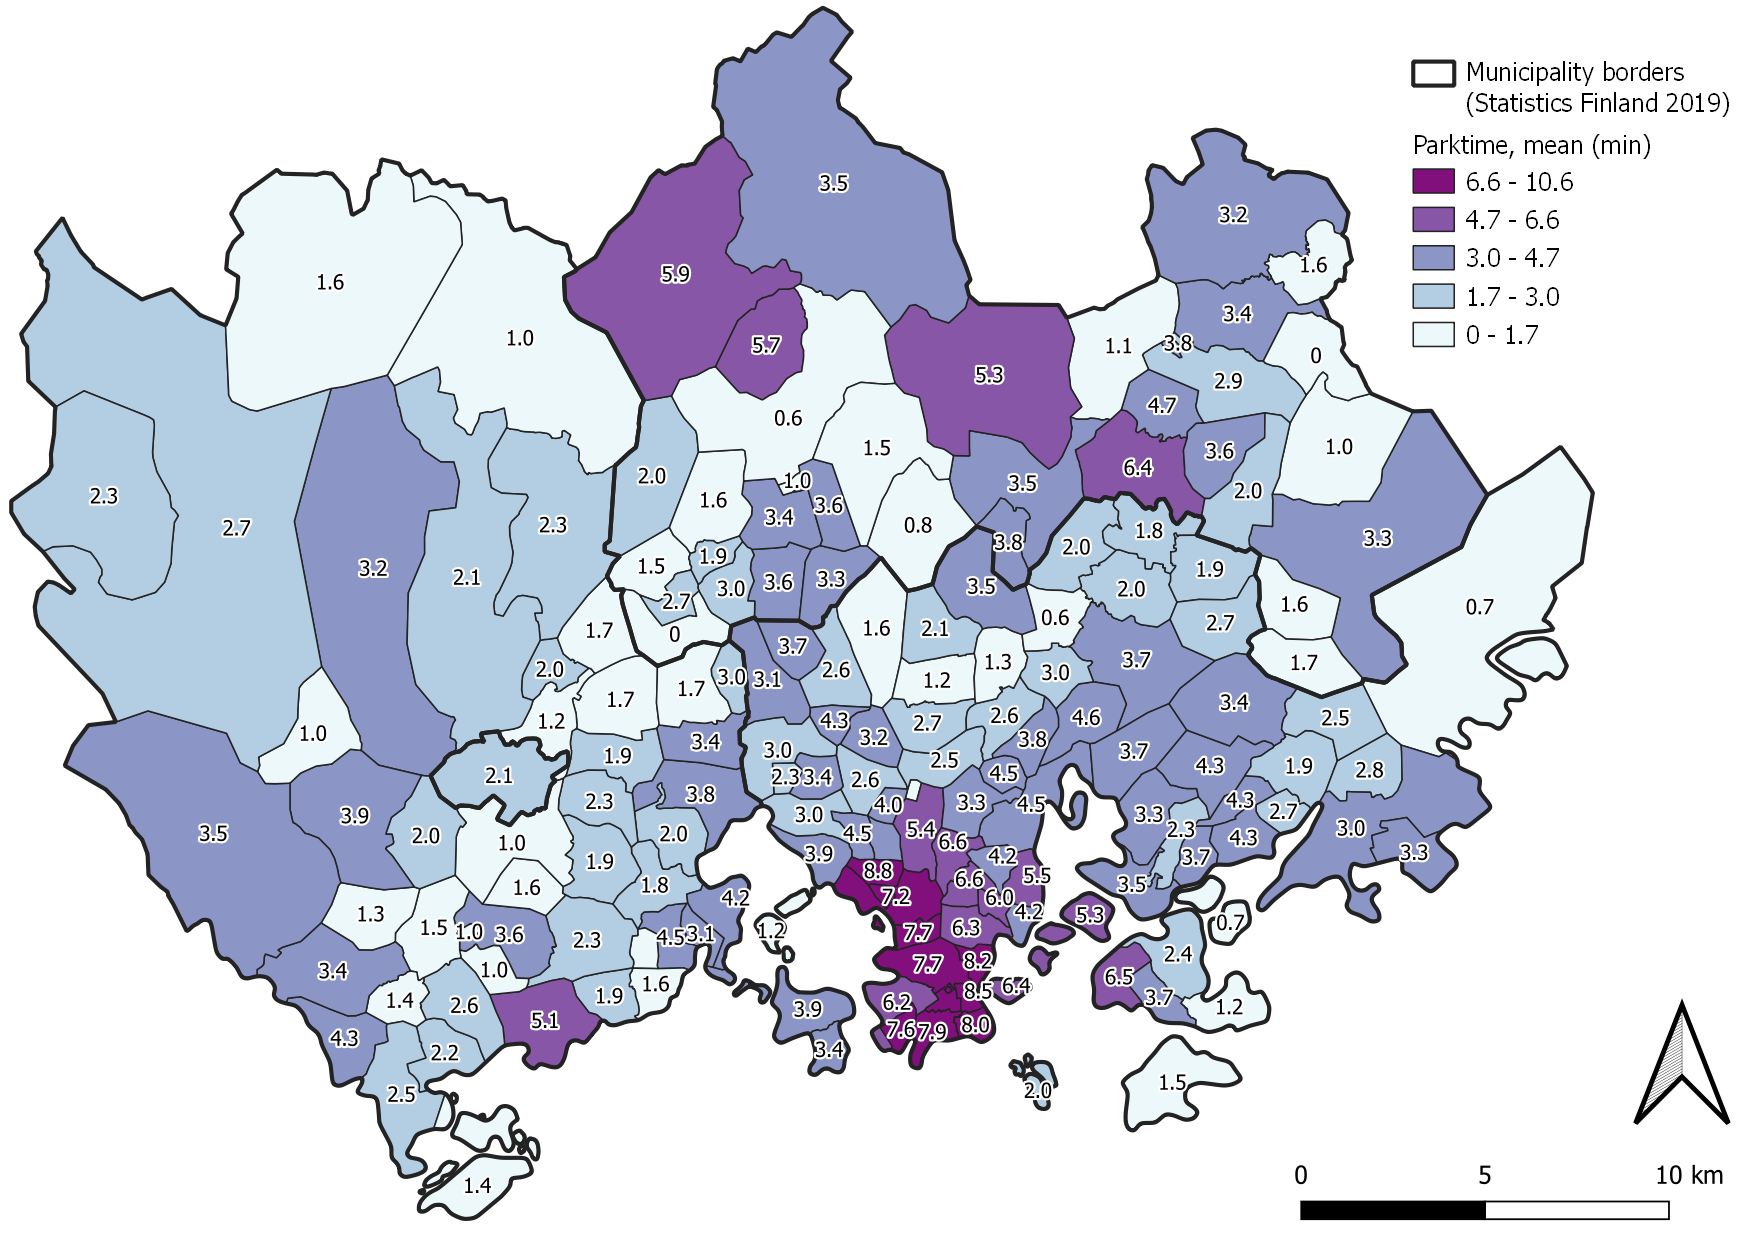
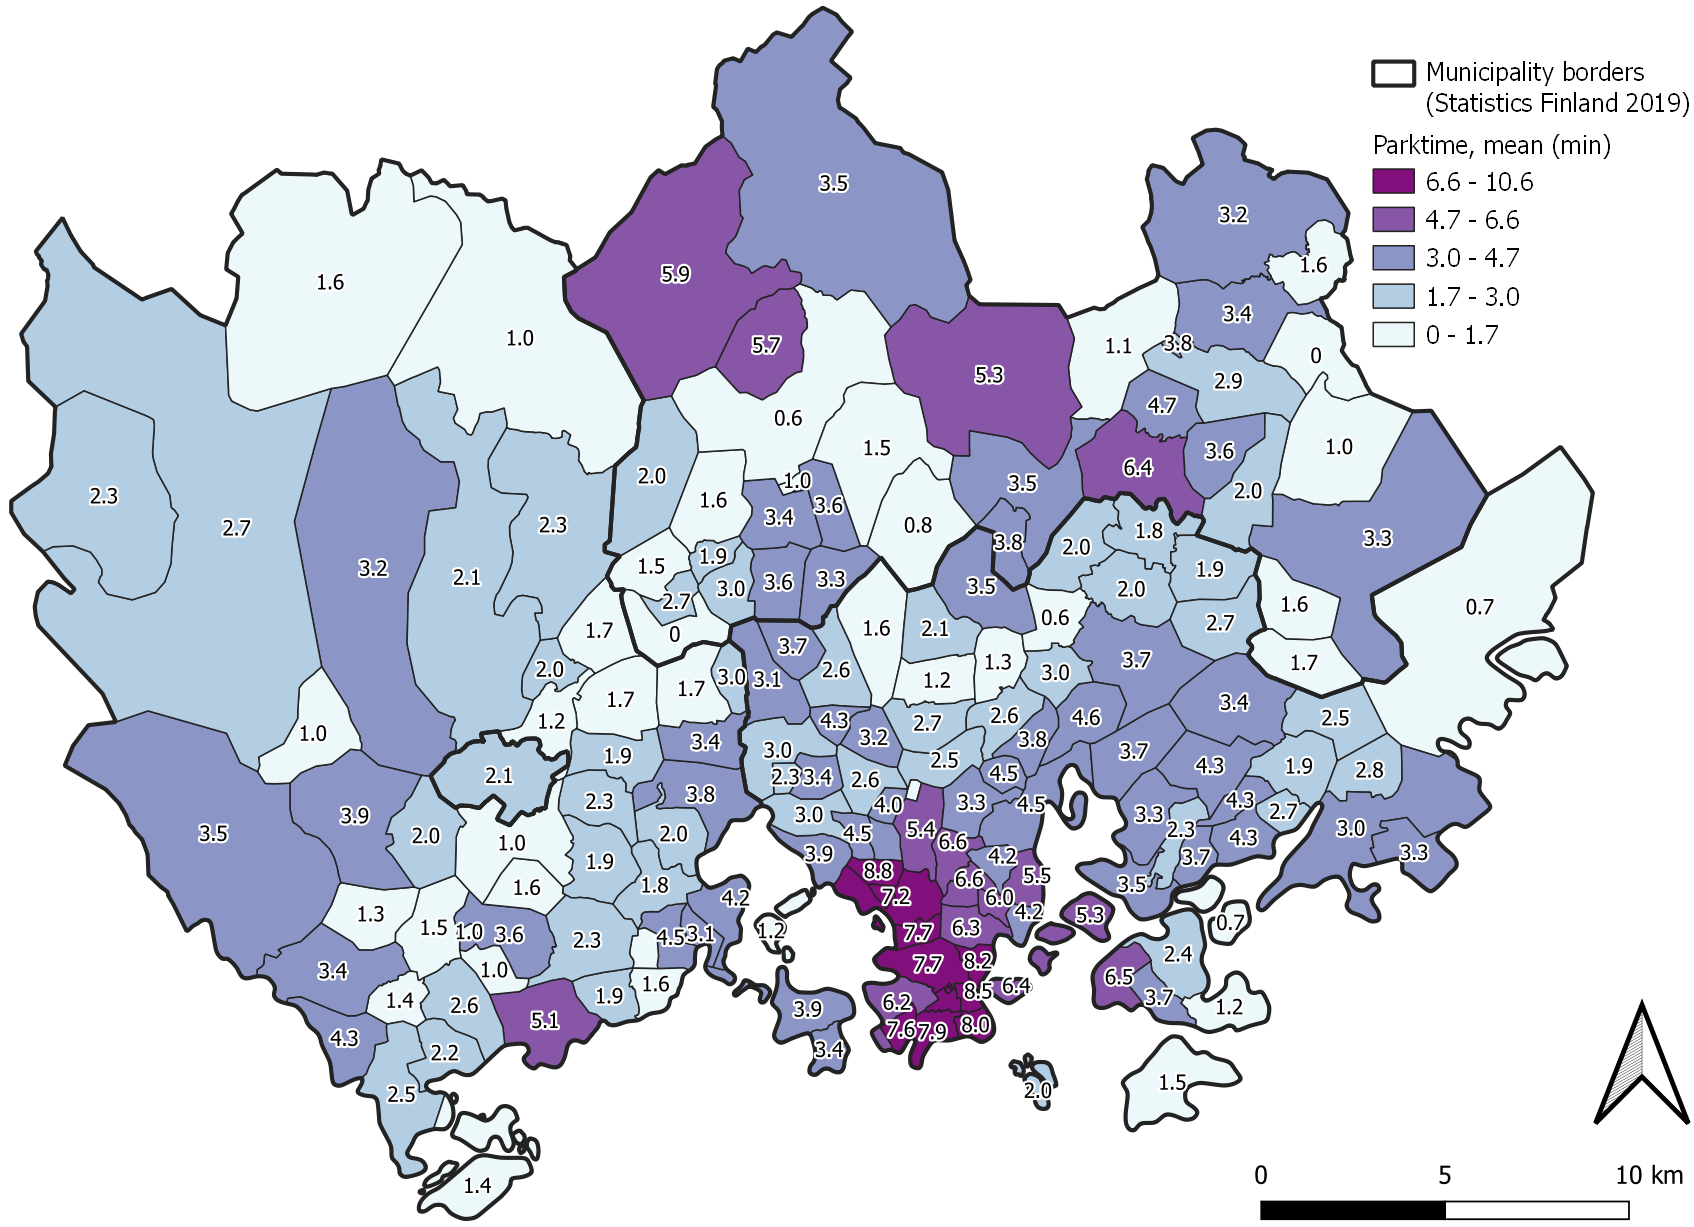
Result comparison app figures now color deficiency friendly

diff --git a/content/c4_results.tex b/content/c4_results.tex
@@ -11,21 +11,7 @@
 \textcolor{red}{selitä auki parktime ja walktime kerran ennen lyhenteiden käyttöä}\\
 In this chapter, the thesis research survey results are presented. Within the selected criteria (\code{parktime < 60} and \code{walktime < 60}, see \hyperref[sec:processdata]{\fullref{sec:processdata}}), the survey received a total of 5579 visits from 4320 unique IP addresses. 848 unique IP addresses visited the survey more than one time and in total 1060 unique IP addresses sent data to the survey. 24.5 percent of all visitors submitted at least one data row. On average one respondent submitted 4.9 data rows.
 
-The survey received in total 5183 data rows. All postal code areas were represented in the survey results (figure~\ref{fig:postalvis_answers}), but the data row count histogram was heavily skewed to the right, with the first quartile being eight data rows, second (median) 17 data rows and third 42 data rows (table~\ref{tab:muns_answer_stats}, figures~\ref{fig:parktime_hist},~\ref{fig:walktime_hist}). Most respondents reported short parking times below ten minutes, but the histograms do not smoothly lessen in values from the right to left, as people have preferred to report round figures such as five, ten, or fifteen minutes. There were five postal code areas with more than one hundred data rows and 55 postal code areas with less than ten data rows. In Helsinki, the answers strongly clustered around the center of Helsinki, with other centers of activity being Herttoniemi and Itäkeskus-Marjaniemi in Helsinki, Tapiola-Otaniemi and Leppävaara in Espoo, and Tikkurila-Vantaanportti in Vantaa.
-
-\begin{figure}[H]%
-    \centering
-    \includegraphics[width=\textwidth]{images/hist_pmax59-wmax59_parktime-likert_binw2_23-09-2020.png}
-    \caption[Histogram, searching for parking]{All permitted thesis survey \code{parktime} values (< 60) shown on histogram. \textcolor{red}{larger text needed}}%
-    \label{fig:parktime_hist}%
-\end{figure}
-
-\begin{figure}[H]%
-    \centering
-    \includegraphics[width=\textwidth]{images/hist_pmax59-wmax59_walktime-likert_binw2_23-09-2020.png}
-    \caption[Histogram, walk to destination]{All permitted thesis survey \code{walktime} values (< 60) shown on histogram. \textcolor{red}{larger text needed}}%
-    \label{fig:walktime_hist}%
-\end{figure}
+The survey received in total 5183 data rows. All postal code areas were represented in the survey results, but the data row count histogram was heavily skewed to the right, with the first quartile being eight data rows, second (median) 17 data rows and third 42 data rows (table~\ref{tab:muns_answer_stats}, figures~\ref{fig:parktime_hist},~\ref{fig:walktime_hist}). Most respondents reported short parking times below ten minutes, but the histograms do not smoothly lessen in values from the right to left, as people have preferred to report round figures such as five, ten, or fifteen minutes. There were five postal code areas with more than one hundred data rows and 55 postal code areas with less than ten data rows. In Helsinki, the answers strongly clustered around the center of Helsinki, with other centers of activity being Herttoniemi and Itäkeskus-Marjaniemi in Helsinki, Tapiola-Otaniemi and Leppävaara in Espoo, and Tikkurila-Vantaanportti in Vantaa.
 
 \begin{hyphenrules}{nohyphenation}
     \begin{table}[H]
@@ -50,6 +36,20 @@ The survey received in total 5183 data rows. All postal code areas were represen
     \end{table} 
 \end{hyphenrules}
 
+\begin{figure}[H]%
+    \centering
+    \includegraphics[width=\textwidth]{images/hist_pmax59-wmax59_parktime-likert_binw2_23-09-2020.png}
+    \caption[Histogram, searching for parking]{All permitted thesis survey \code{parktime} values (< 60) shown on histogram. \textcolor{red}{larger text needed}}%
+    \label{fig:parktime_hist}%
+\end{figure}
+
+\begin{figure}[H]%
+    \centering
+    \includegraphics[width=\textwidth]{images/hist_pmax59-wmax59_walktime-likert_binw2_23-09-2020.png}
+    \caption[Histogram, walk to destination]{All permitted thesis survey \code{walktime} values (< 60) shown on histogram. \textcolor{red}{larger text needed}}%
+    \label{fig:walktime_hist}%
+\end{figure}
+
 On a closer look to the municipalities, finer details become apparent (figure~\ref{fig:postalvis_answers}). For example, in Helsinki, a wedge-like area of survey activity in the direction of southwest-northeast is visible. Starting out from the west, this area spans from Lauttasaari to the center of Helsinki and moving on all the way east to Malmi. Many of the areas which could be roughly characterised as residential areas were left with little activity. Furthermore, in the survey instructions respondents were requested to refrain from including parking activity in private property, as it was assumed in survey design phase that these areas would provide near to instantaneous parking, potentially distorting the data and obfuscating the objectives set by the thesis research questions. The lightness of activity in residential areas corresponds with the made request.
 
 % A known issue with these maps: Vartiosaari is represented on these maps. As an unreachable island, it shouldn't.
@@ -60,12 +60,13 @@ On a closer look to the municipalities, finer details become apparent (figure~\r
     \label{fig:postalvis_answers}%
 \end{figure}
 
-In the finest resolution available, the postal code areas, long \code{parktime} values closely follow areas with most survey activity (figure~\ref{fig:postalvis_parkmean}, figure~\ref{fig:postalvis_parkmedian}). The longest \code{parktime} values were encountered in the center of Helsinki, where the mean value for 00120 Punavuori was 10.6 minutes (median 10.0 minutes, 91 data rows) and 00290 Meilahden sairaala-alue 9.4 minutes (5.0 min, 42 data rows). Long parking times over five minutes were recorded in all over the center area, but also in 00570 Kulosaari (mean 5.3 minutes, median 5.0 minutes, 48 data rows) and 00590 Kaitalahti (6.5 min, 3.5 min, 16 data rows). In Espoo, the longest \code{parktime} values were found in 02230 Matinkylä (5.1 min, 5.0 min, 62 data rows), 02100 Tapiola (4.6 min, 3.0 min, 71 data rows), and in 02320 Espoonlahti (4.3 min, 3.0 min, 30 data rows). In Vantaa, it took the longest to find a parking spot in 01300 Tikkurila with (6.4 min, 5.0 min, 85 data rows). According to the survey results, it was relatively hard to find a parking spot in 01700 Kivistö (5.7 min, 4.0 min, 30 data rows), too.
+In the finest resolution available, the postal code areas, long \code{parktime} values closely follow areas with most survey activity (figures~\ref{fig:postalvis_parkmean},~\ref{fig:postalvis_parkmedian}). The longest \code{parktime} values were encountered in the center of Helsinki, where the mean value for 00120 Punavuori was 10.6 minutes (median 10.0 minutes, 91 data rows) and 00290 Meilahden sairaala-alue 9.4 minutes (5.0 min, 42 data rows). Long parking times over five minutes were recorded in all over the center area, but also in 00570 Kulosaari (mean 5.3 minutes, median 5.0 minutes, 48 data rows) and 00590 Kaitalahti (6.5 min, 3.5 min, 16 data rows). In Espoo, the longest \code{parktime} values were found in 02230 Matinkylä (5.1 min, 5.0 min, 62 data rows), 02100 Tapiola (4.6 min, 3.0 min, 71 data rows), and in 02320 Espoonlahti (4.3 min, 3.0 min, 30 data rows). In Vantaa, it took the longest to find a parking spot in 01300 Tikkurila (6.4 min, 5.0 min, 85 data rows). According to the survey results, it was relatively hard to find a parking spot in 01700 Kivistö (5.7 min, 4.0 min, 30 data rows), too.
 
 In the case of this survey dataset it is important to not lose sight of median, as mean is susceptible to outliers, of which there are many present. One such situation may be viewed in 01750 Keimola, where the mean \code{parktime} is 5.9 minutes, and median reads at 1.0 minute. In Keimola's situation, one respondent entered a \code{parktime} value of 25 minutes, severely skewing the total sample of seven values. It may be argued that when detecting areas of long duration of searching for parking, median is the better measure to identify areas of interest.
 
-The mean \code{walktime} values follow the same municipal order as those of \code{parktime}: On average, in Helsinki it took 4.8 minutes to walk from one's parked car to the final destination of the journey (figure~\ref{fig:postalvis_walkmean}, figure~\ref{fig:postalvis_walkmedian}). In Vantaa, this process was 4.0 minutes, while Espoo had mean parking time of 3.9 minutes and Kauniainen 2.2 minutes. Viewing median values, this is 4.0, 3.0, 2.0, and 2.0 minutes for Helsinki, Vantaa, Espoo, and Kauniainen, respectively. Of the entire research area, Espoo's 02780 Kauklahti stood out with a mean walking time of 6.3 minutes (median 5.5 min) to one's destination. It is notable that this subdivision received 10 answers, ranking second to the last before Helsinki's 00890 Östersundom's total of 6 answers.
+The mean \code{walktime} values follow the same municipal order as those of \code{parktime}: On average, in Helsinki it took 4.8 minutes to walk from one's parked car to the final destination of the journey (figure~\ref{fig:postalvis_walkmean},~\ref{fig:postalvis_walkmedian}). In Vantaa, this process was 4.0 minutes, while Espoo had mean parking time of 3.9 minutes and Kauniainen 2.2 minutes. Viewing median values, this is 4.0, 3.0, 2.0, and 2.0 minutes for Helsinki, Vantaa, Espoo, and Kauniainen, respectively. Of the entire research area, Espoo's 02780 Kauklahti stood out with a mean walking time of 6.3 minutes (median 5.5 min) to one's destination. It is notable that this subdivision received 10 answers, ranking second to the last before Helsinki's 00890 Östersundom's total of 6 answers.
 
+\textcolor{red}{overlap here vs subdiv totals of next chapter?}\\
 When viewed through postal code areas, \code{walktime} shows the longest durations to walk from one's car to the final destination in Helsinki with the top belonging to 00100 Helsinki Keskusta -- Etu-Töölö (mean 7.4 minutes, median 5.0 minutes, 271 data rows). Most of the central Helsinki did not fall far behind with most values ranging from five to seven minutes. Outside of the center of Helsinki, 00570 Kulosaari (6.7 min, 5.0 min, 48 data rows), 00590 Kaitalahti (6.3 min, 5.0 min, 16 data rows) and 00690 Tuomarinkylä-Torpparinmäki (5.3 min, 3.0 min, 15 data rows) saw long \code{walktime} values within the boundaries of Helsinki. Looking outward from the capital, the \code{walktime} values in Espoo were mostly lower than those in Helsinki. Longest recorded durations in Espoo were in 02100 Tapiola (5.4 min, 5.0 min, 71 data rows), 02780 Kauklahti (6.3 min, 5.5 min, 10 data rows), and 02820 Nupuri-Nuuksio (7.0 min, 5.0 min, 7 data rows). Vantaa's longest \code{walktime} values were found in 01530 Veromiehenkylä (8.0 min, 5.5 min, 48 data rows), 01300 Tikkurila (6.3 min, 5.0 min, 85 data rows), and 01700 Kivistö (5.6 min, 5.0 min, 30 data rows). 
 
 It is difficult to try and determine the causes behind these long \code{walktime} values, but it may be worth noting, that many of the postal code areas with top values contain popular sightseeing locations, such as the Haltiala domestic animal farm in 00690 Tuomarinkylä-Torpparinmäki and the national park of Nuuksio in 02820 Nupuri-Nuuksio. The postal code area of 01530 Veromiehenkylä is almost entirely in the use of Helsinki-Vantaa Airport. It quickly becomes apparent that recreational trips to Nuuksio National Park may nudge the Espoo's \code{walktime} values upward, while in Vantaa, the Helsinki-Vantaa Airport walking seems to be a similar factor. A summarising feature about \code{walktime} is that areas of long walking times from one's car to the final destination are not as apparently clustered as those of \code{parktime} are.
@@ -73,28 +74,28 @@ It is difficult to try and determine the causes behind these long \code{walktime
 
 \begin{figure}[H]%
     \centering
-    \includegraphics[width=.88\textwidth]{images/thesis_postalvis_parkmean.png}
-    \caption[Parktime, mean, in the reseach area]{This figure illustrates the mean duration of searching for parking and parking one's car in each postal code area.}%
+    \includegraphics[width=\textwidth]{images/thesis_postalvis_parkmean.png}
+    \caption[Parktime, mean, in the reseach area]{This figure illustrates the mean duration of searching for parking and parking one's car in each postal code area. \textcolor{red}{possibly larger fonts needed}}%
     \label{fig:postalvis_parkmean}%
 \end{figure}
 
 \begin{figure}[H]%
     \centering
-    \includegraphics[width=.88\textwidth]{images/thesis_postalvis_parkmedian.png}
+    \includegraphics[width=\textwidth]{images/thesis_postalvis_parkmedian.png}
     \caption[Parktime, median, in the reseach area]{This figure illustrates the median duration of searching for parking and parking one's car in each postal code area.}%
     \label{fig:postalvis_parkmedian}%
 \end{figure}
 
 \begin{figure}[H]%
     \centering
-    \includegraphics[width=.88\textwidth]{images/thesis_postalvis_walkmean.png}
+    \includegraphics[width=\textwidth]{images/thesis_postalvis_walkmean.png}
     \caption[Walktime, mean, in the research area]{This figure illustrates the mean duration of walking from one's parked car to the final destination in each postal code area.}%
     \label{fig:postalvis_walkmean}%
 \end{figure}
 
 \begin{figure}[H]%
     \centering
-    \includegraphics[width=.88\textwidth]{images/thesis_postalvis_walkmedian.png}
+    \includegraphics[width=\textwidth]{images/thesis_postalvis_walkmedian.png}
     \caption[Walktime, median, in the research area]{This figure illustrates the median duration of walking from one's parked car to the final destination in each postal code area.}%
     \label{fig:postalvis_walkmedian}%
 \end{figure}
@@ -649,21 +650,21 @@ Using all available survey data and the full \textit{TTM} data, all postal code 
 % trim={<left> <lower> <right> <upper>}
 \begin{figure}[H]%
     \centering
-    \includegraphics[trim={1.75cm 0.25cm 0 0.5cm},clip,width=\textwidth]{images/compare_traveltimes_mapfill-msc_r_pct_fromzip-00150.png}
+    \includegraphics[trim={3.25cm 1.45cm 0.25cm 0.5cm},clip,width=\textwidth]{images/compare_traveltimes_mapfill-msc_r_pct_fromzip-00150_26-09-2020.png}
     \caption[Parking process significance from Eira-Hernesaari, rush hour traffic]{The parking process significance in the total travel chain, in rush hour traffic, starting from 00150 Eira-Hernesaari.}%
     \label{fig:compare_msc_r_pct_00150}%
 \end{figure}
 
 \begin{figure}[H]%
     \centering
-    \includegraphics[trim={1.75cm 0.25cm 0 0.5cm},clip,width=\textwidth]{images/compare_traveltimes_mapfill-msc_m_pct_fromzip-00150.png}
+    \includegraphics[trim={3.25cm 1.45cm 0.25cm 0.5cm},clip,width=\textwidth]{images/compare_traveltimes_mapfill-msc_m_pct_fromzip-00150_26-09-2020.png}
     \caption[Parking process significance from Eira-Hernesaari, midday traffic]{The parking process significance in the total travel chain, in midday traffic, starting from 00150 Eira-Hernesaari.}%
     \label{fig:compare_msc_m_pct_00150}%
 \end{figure}
 
 \begin{figure}[H]%
     \centering
-    \includegraphics[trim={1.75cm 0.25cm 0 0.5cm},clip,width=\textwidth]{images/compare_traveltimes_mapfill-msc_all_pct_fromzip-00150.png}
+    \includegraphics[trim={3.25cm 1.45cm 0.25cm 0.5cm},clip,width=\textwidth]{images/compare_traveltimes_mapfill-msc_all_pct_fromzip-00150_26-09-2020.png}
     \caption[Parking process significance from Eira-Hernesaari, all temporal values]{The parking process significance in the total travel chain, using all available temporal values, starting from 00150 Eira-Hernesaari.}%
     \label{fig:compare_msc_all_pct_00150}%
 \end{figure}
@@ -676,21 +677,21 @@ If all available temporal data is employed in thesis survey data and \textit{TTM
 
 \begin{figure}[H]%
     \centering
-    \includegraphics[trim={1.75cm 0.25cm 0 0.5cm},clip,width=\textwidth]{images/compare_traveltimes_mapfill-msc_r_pct_fromzip-00640.png}
+    \includegraphics[trim={3.25cm 1.45cm 0.25cm 0.5cm},clip,width=\textwidth]{images/compare_traveltimes_mapfill-msc_r_pct_fromzip-00640_26-09-2020.png}
     \caption[Parking process significance from Oulunkylä-Patola, rush hour traffic]{The parking process significance in the total travel chain, in rush hour traffic, starting from 00640 Oulunkylä-Patola.}%
     \label{fig:compare_msc_r_pct_00640}%
 \end{figure}
 
 \begin{figure}[H]%
     \centering
-    \includegraphics[trim={1.75cm 0.25cm 0 0.5cm},clip,width=\textwidth]{images/compare_traveltimes_mapfill-msc_m_pct_fromzip-00640.png}
+    \includegraphics[trim={3.25cm 1.45cm 0.25cm 0.5cm},clip,width=\textwidth]{images/compare_traveltimes_mapfill-msc_m_pct_fromzip-00640_26-09-2020.png}
     \caption[Parking process significance from Oulunkylä-Patola, midday traffic]{The parking process significance in the total travel chain, in midday traffic, starting from 00640 Oulunkylä-Patola.}%
     \label{fig:compare_msc_m_pct_00640}%
 \end{figure}
 
 \begin{figure}[H]%
     \centering
-    \includegraphics[trim={1.75cm 0.25cm 0 0.5cm},clip,width=\textwidth]{images/compare_traveltimes_mapfill-msc_all_pct_fromzip-00640.png}
+    \includegraphics[trim={3.25cm 1.45cm 0.25cm 0.5cm},clip,width=\textwidth]{images/compare_traveltimes_mapfill-msc_all_pct_fromzip-00640_26-09-2020.png}
     \caption[Parking process significance from Oulunkylä-Patola, all temporal values]{The parking process significance in the total travel chain, using all temporal values, starting from 00640 Oulunkylä-Patola.}%
     \label{fig:compare_msc_all_pct_00640}%
 \end{figure}
@@ -703,21 +704,21 @@ When utilising all available data from the survey and \textit{TTM}, a wholesome 
 
 \begin{figure}[H]%
     \centering
-    \includegraphics[trim={1.75cm 0.25cm 0 0.5cm},clip,width=\textwidth]{images/compare_traveltimes_mapfill-msc_r_pct_fromzip-02920.png}
+    \includegraphics[trim={3.25cm 1.45cm 0.25cm 0.5cm},clip,width=\textwidth]{images/compare_traveltimes_mapfill-msc_r_pct_fromzip-02920_26-09-2020.png}
     \caption[Parking process significance from Niipperi, rush hour traffic]{The parking process significance in the total travel chain, in rush hour traffic, starting from 02920 Niipperi.}%
     \label{fig:compare_msc_r_pct_02920}%
 \end{figure}
 
 \begin{figure}[H]%
     \centering
-    \includegraphics[trim={1.75cm 0.25cm 0 0.5cm},clip,width=\textwidth]{images/compare_traveltimes_mapfill-msc_m_pct_fromzip-02920.png}
+    \includegraphics[trim={3.25cm 1.45cm 0.25cm 0.5cm},clip,width=\textwidth]{images/compare_traveltimes_mapfill-msc_m_pct_fromzip-02920_26-09-2020.png}
     \caption[Parking process significance from Niipperi, midday traffic]{The parking process significance in the total travel chain, in midday traffic, starting from 02920 Niipperi.}%
     \label{fig:compare_msc_m_pct_02920}%
 \end{figure}
 
 \begin{figure}[H]%
     \centering
-    \includegraphics[trim={1.75cm 0.25cm 0 0.5cm},clip,width=\textwidth]{images/compare_traveltimes_mapfill-msc_all_pct_fromzip-02920.png}
+    \includegraphics[trim={3.25cm 1.45cm 0.25cm 0.5cm},clip,width=\textwidth]{images/compare_traveltimes_mapfill-msc_all_pct_fromzip-02920_26-09-2020.png}
     \caption[Parking process significance from Niipperi, all temporal values]{The parking process significance in the total travel chain, using all temporal values, starting from 02920 Niipperi.}%
     \label{fig:compare_msc_all_pct_02920}%
 \end{figure}

diff --git a/content/c3_data.tex b/content/c3_data.tex
@@ -502,14 +502,14 @@ Next in the survey data processing workflow the additional spatial data was adde
 \begin{figure}[H]%
     \centering
     \includegraphics[width=\textwidth]{images/thesis_postalvis_ykrzone.png}
-    \caption[Calculated zones of urban structure in the research area]{Each postal code area was assigned to belong to a group in the variable \code{ykr\_zone}, explained in table~\ref{tab:ykr_zones_simplify}, according to which group was largest in area in any given postal code area.}%
+    \caption[Calculated zones of urban structure in the research area]{Each postal code area was assigned to belong to a group in the variable \code{ykr\_zone}, explained in table~\ref{tab:ykr_zones_simplify}, according to which group was largest in area in any given postal code area.\textcolor{red}{need larger font, remove decimal}}%
     \label{fig:postalvis_ykrzone}%
 \end{figure}
 
 \begin{figure}[H]%
     \centering
     \includegraphics[width=\textwidth]{images/thesis_postalvis_artificial.png}
-    \caption[Calculated zones of built surfaces in the research area]{Artificial surfaces are based on CORINE Land Cover 2018.}%
+    \caption[Calculated zones of built surfaces in the research area]{Artificial surfaces are based on CORINE Land Cover 2018.\textcolor{red}{need larger font, remove decimal, move scalebar away from delineation}}%
     \label{fig:postalvis_artificial}%
 \end{figure}
 
